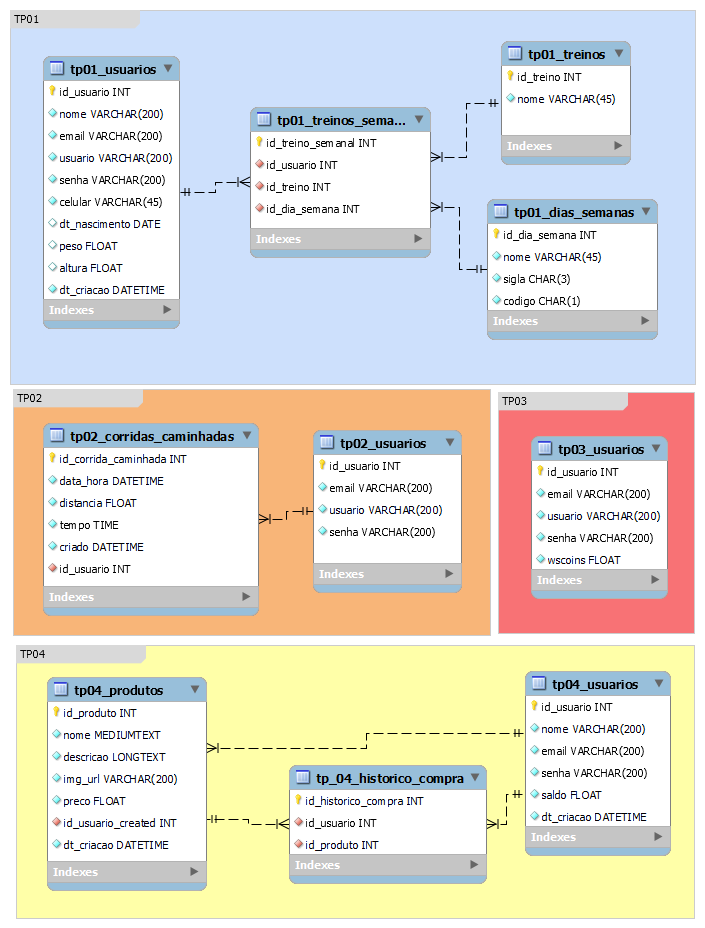
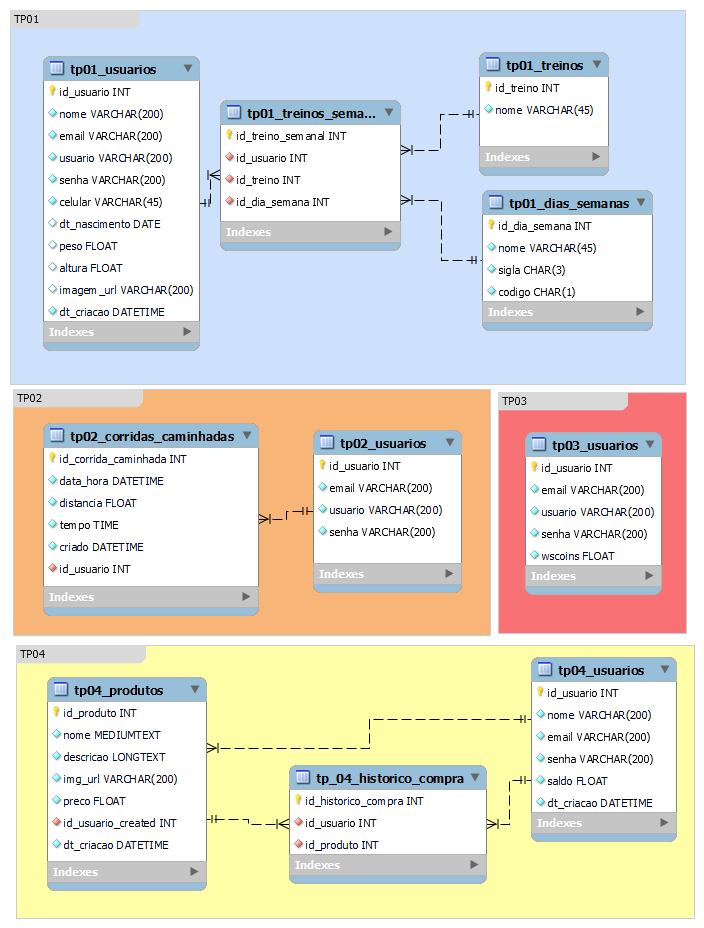
adicionando foto de usuario tp01

diff --git a/TP01/controllers/usuario.controller.js b/TP01/controllers/usuario.controller.js
@@ -22,6 +22,7 @@ exports.verificarUsuario = async (req, res, next) => {
 
 exports.registrarUsuario = async (req, res) => {
     try {
+        const imagemPaht = req.file ? utils.formatarUrl(req.file.path) : null;
         if (!res.locals.id_usuario) {
             const hash = await bcrypt.hash(req.body.senha, 10);
             await mysql.execute(`
@@ -30,9 +31,10 @@ exports.registrarUsuario = async (req, res) => {
                             email,
                             senha,
                             usuario,
-                            celular
-                        ) VALUES (?,?,?,?,?);`,
-                [req.body.nome, req.body.email, hash, req.body.usuario, req.body.celular]
+                            celular,
+                            imagem_url
+                        ) VALUES (?,?,?,?,?,?);`,
+                [req.body.nome, req.body.email, hash, req.body.usuario, req.body.celular, imagemPaht]
             );
             return res.status(201).send({ message: 'Usuário Cadastrado com Sucesso!' });
         } else {
@@ -56,12 +58,14 @@ exports.getDadosUsuario = async (req, res, next) => {
                     dt_nascimento,
                     peso,
                     altura,
-                    dt_criacao 
+                    imagem_url,
+                    dt_criacao
                FROM tp01_usuarios 
               WHERE id_usuario = ?`,
                 [res.locals.id_usuario]
             );
             res.locals.usuario = dadosUsuarios[0];
+            res.locals.usuario.imagem_url = utils.formatarUrl(res.locals.usuario.imagem_url);
             next();
         } else {
             return res.status(404).send({ mensagem: 'Usuário não encontrado!' });

diff --git a/TP01/routes/usuario.route.js b/TP01/routes/usuario.route.js
@@ -1,12 +1,26 @@
 const express = require('express');
 const router = express.Router();
-const login = require('../middleware/login.middleware');
+const multer = require('multer');
 
+const login = require('../middleware/login.middleware');
 const usuarioController = require('../controllers/usuario.controller');
+
+const storage = multer.diskStorage({
+    destination: (req, file, cb) => {
+        cb(null, './assets');
+    },
+    filename: (req, file, cb) => {
+        cb(null, new Date().getTime() + '-' + file.originalname);
+    }
+});
+const upload = multer({
+    storage: storage
+});
 
 router.post(
     '/cadastro',
     usuarioController.verificarUsuario,
+    upload.single('imagem'),
     usuarioController.registrarUsuario
 );
 
